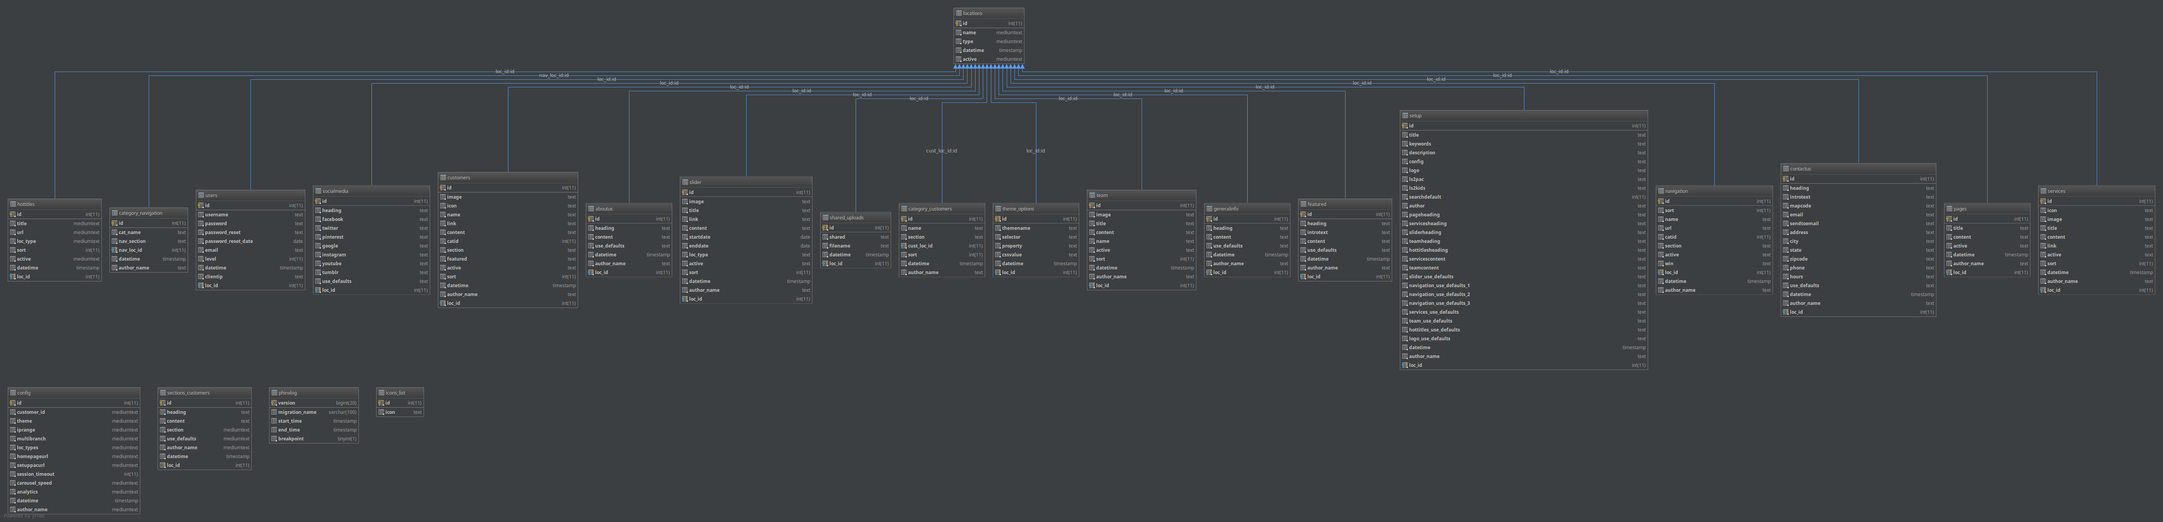
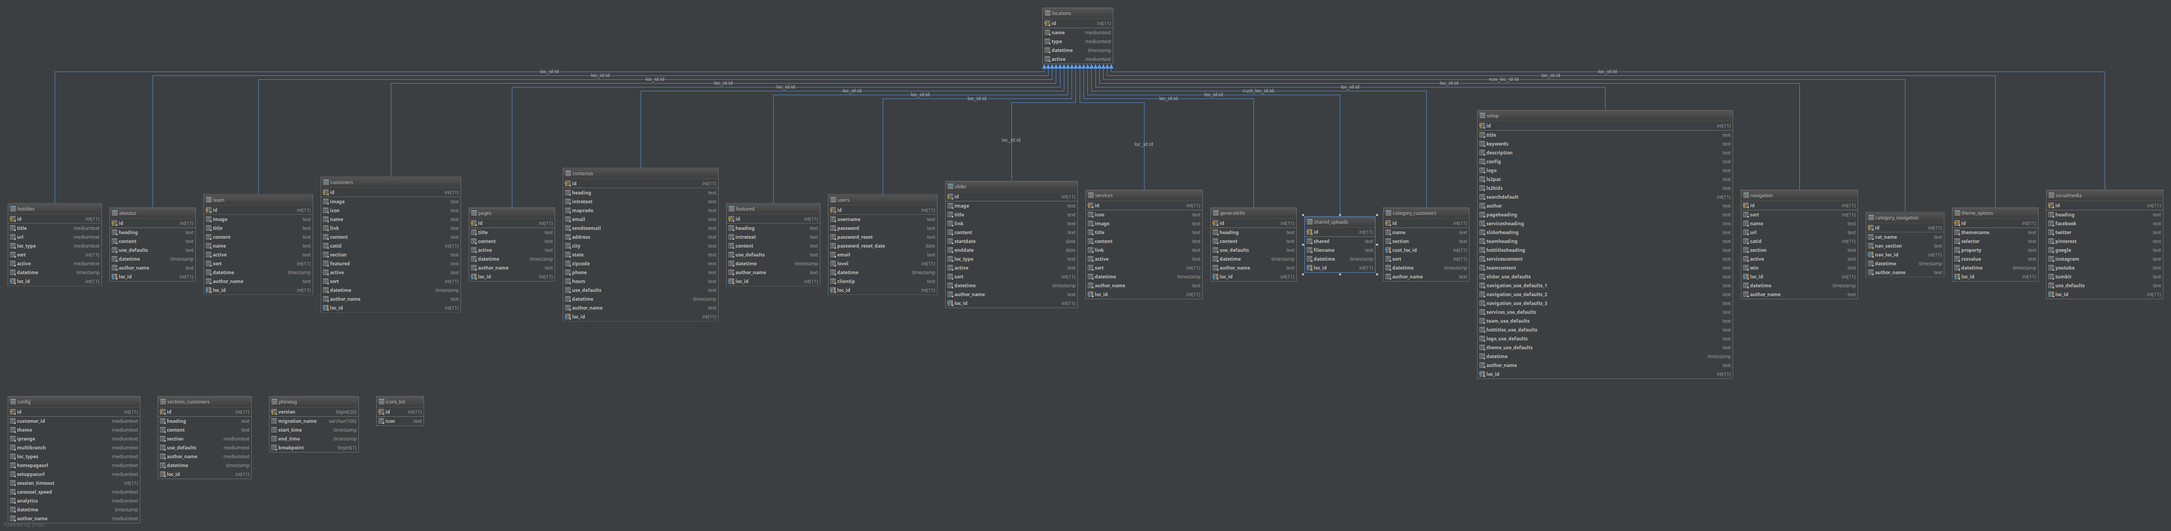
updated dynamic styles for default theme

diff --git a/themes/default/css/default-style.min.css b/themes/default/css/default-style.min.css
@@ -1,1 +1,1 @@
-html{padding:0;margin:0}body{font-family:"Century Gothic",Arial,sans-serif;padding:0;margin:0;position:relative;min-height:100%;top:0}p{font-family:"Arial",sans-serif;font-size:14px}a{color:#15698c}a:hover,a:focus{text-decoration:none;color:#008eaa}h1,.h1,h2,.h2,h3,.h3{font-family:"Century Gothic","Helvetica Neue",Helvetica,Arial,sans-serif}h1,.h1{color:#15698c}h3.sublinktitle{margin:10px 0 0 0}.text-white{color:#fff}footer{bottom:0;background:linear-gradient(#111,#0f0f0f,#202020);background:-webkit-linear-gradient(#111,#0f0f0f,#202020);background:-o-linear-gradient(#111,#0f0f0f,#202020);background:-moz-linear-gradient(#111,#0f0f0f,#202020);color:#fff;padding:70px 50px 0 50px;margin-top:0;margin-bottom:0;width:100%}footer a{text-decoration:none;color:#fff}footer a:hover{text-decoration:none;color:#008eaa}#belowfooter{background-color:transparent;background:transparent;padding:25px;color:#fff;height:80px}#belowfooter .row{padding:0 25px 0 25px}#belowfooter a{text-decoration:none;color:#fff}#belowfooter a:hover{text-decoration:none;color:#008eaa}.label{font-weight:normal}.navbar-brand{padding:10px 40px 8px 15px;height:100px}.navbar{min-height:100px;background-color:#FFF;border-bottom:#DDD 1px solid;margin-bottom:0}.cpsNavBar{font-family:"Century Gothic",Sans-serif;border-bottom:1px solid #e6e6e6;padding:10px 0 10px 15px}.navbarButton{font-family:"Century Gothic",Sans-serif;border:0;margin-top:23px}.navTitle{font-family:"Century Gothic",Sans-serif;padding-top:30px;margin-left:10px;margin-right:10px;color:#0032a0}.navTitleSmall{font-family:"Century Gothic",Sans-serif;margin-top:15px;font-size:14px}.navTabs{font-family:"Century Gothic",Sans-serif}.nav .open>a,.nav .open>a:focus,.nav .open>a:hover{background-color:transparent;border-color:transparent}.navbar-Search>li>a{color:#fff}.navbar-Search>li>a:focus,.navbar-Search>li>a:hover{background:transparent;color:#fff;text-decoration:underline}.navbar-Top>li{padding-right:25px}.navbar-Top>li>a{border-bottom:0;line-height:15px;font-size:1.1em;color:#15698c;padding:45px 0 6px}.navbar-Top>li>a:hover,.navbar-Top>li>a:focus{color:#008eaa;background-color:transparent}.nav-shrink ul.navbar-Top>li>a{padding:24px 0 12px 0}.nav-shrink .navbar-brand{height:60px}.nav-shrink{min-height:60px;-webkit-transition:min-height .5s;transition:min-height .5s}.nav-shrink .fa-inverse-socialmedia,.nav-shrink .fa-stack{font-size:1.2em}.img-landing{padding:4px;background-color:transparent;border-radius:16px;border:1px solid #fff;float:right}.socialDiv{float:right;padding-top:0;position:absolute;right:20px}.socialDiv .social-top>.fa-stack-2x{display:none}.socialDiv .fa-inverse-socialmedia{color:#15698c}.socialDiv .fa-inverse-socialmedia:hover{color:#428bca}#belowfooter .socialDiv{float:left;padding-top:0;position:relative;right:0;text-align:left;clear:both}#belowfooter .socialDiv .social-top>.fa-stack-2x{display:none}#belowfooter .socialDiv a.pull-right{float:left}#belowfooter .socialDiv .fa-inverse-socialmedia{color:#fff}.navbar-brand-image{width:144px;height:77px}.navbar-toggle{margin-top:22px}.toggbutton{font-size:.7em;line-height:1em;display:block;font-weight:bold}.bannerwrapper{padding:30px}.bannerwrapper h1{margin-top:0;margin-bottom:20px}.sitesearchheading{display:none}.grad-violet{background:-webkit-linear-gradient(-200deg,#601179,#93328e);background:-o-linear-gradient(-200deg,#601179,#93328e);background:-moz-linear-gradient(-200deg,#601179,#93328e);background:linear-gradient(-200deg,#601179,#93328e);background-color:#93328e}.grad-green{background:-webkit-linear-gradient(-200deg,#008eaa,#78be20);background:-o-linear-gradient(-200deg,#008eaa,#78be20);background:-moz-linear-gradient(-200deg,#008eaa,#78be20);background:linear-gradient(-200deg,#008eaa,#78be20);background-color:#008eaa}.grad-blue{background:-webkit-linear-gradient(-200deg,#15698c,#008eaa);background:-o-linear-gradient(-200deg,#15698c,#008eaa);background:-moz-linear-gradient(-200deg,#15698c,#008eaa);background:linear-gradient(-200deg,#15698c,#008eaa);background-color:#15698c}.grad-gray{background:-webkit-linear-gradient(-200deg,#e6e6e6,#fefefe);background:-o-linear-gradient(-200deg,#e6e6e6,#fefefe);background:-moz-linear-gradient(-200deg,#e6e6e6,#fefefe);background:linear-gradient(-200deg,#e6e6e6,#fefefe);background-color:#e6e6e6}.grad-orange{background:-webkit-linear-gradient(-200deg,#93328e,#ffc72c);background:-o-linear-gradient(-200deg,#93328e,#ffc72c);background:-moz-linear-gradient(-200deg,#93328e,#ffc72c);background:linear-gradient(-200deg,#93328e,#ffc72c);background-color:#ffc72c}.grad-neworange{background:-webkit-linear-gradient(-200deg,#ee7624,#f4ac7b);background:-o-linear-gradient(-200deg,#ee7624,#f4ac7b);background:-moz-linear-gradient(-200deg,#ee7624,#f4ac7b);background:linear-gradient(-200deg,#ee7624,#f4ac7b);background-color:#ee7624}.carousel-gradient{background:-webkit-linear-gradient(-200deg,#0033a0,#008eaa);background:-o-linear-gradient(-200deg,#0033a0,#008eaa);background:-moz-linear-gradient(-200deg,#0033a0,#008eaa);background:linear-gradient(-200deg,#0033a0,#008eaa);background-color:#0033a0}.ui-autocomplete{max-height:200px;overflow:hidden;overflow-y:auto;overflow-x:hidden}#sitesearch{margin-top:100px}.featured{margin-top:100px}.panel.with-nav-tabs .panel-heading{padding:5px 5px 0 5px}.panel.with-nav-tabs .nav-tabs{border-bottom:0}.panel.with-nav-tabs .nav-justified{margin-bottom:-1px}.with-nav-tabs.panel-default .nav-tabs>li>a,.with-nav-tabs.panel-default .nav-tabs>li>a:hover,.with-nav-tabs.panel-default .nav-tabs>li>a:focus{color:#777}.with-nav-tabs.panel-default .nav-tabs>.open>a,.with-nav-tabs.panel-default .nav-tabs>.open>a:hover,.with-nav-tabs.panel-default .nav-tabs>.open>a:focus,.with-nav-tabs.panel-default .nav-tabs>li>a:hover,.with-nav-tabs.panel-default .nav-tabs>li>a:focus{color:#777;background-color:#ddd;border-color:transparent}.with-nav-tabs.panel-default .nav-tabs>li.active>a,.with-nav-tabs.panel-default .nav-tabs>li.active>a:hover,.with-nav-tabs.panel-default .nav-tabs>li.active>a:focus{color:#555;background-color:#fff;border-color:#ddd;border-bottom-color:transparent;border-top:solid 3px #d9534f}.with-nav-tabs.panel-default .nav-tabs>li.dropdown .dropdown-menu{background-color:#f5f5f5;border-color:#ddd}.with-nav-tabs.panel-default .nav-tabs>li.dropdown .dropdown-menu>li>a{color:#777}.with-nav-tabs.panel-default .nav-tabs>li.dropdown .dropdown-menu>li>a:hover,.with-nav-tabs.panel-default .nav-tabs>li.dropdown .dropdown-menu>li>a:focus{background-color:#ddd}.with-nav-tabs.panel-default .nav-tabs>li.dropdown .dropdown-menu>.active>a,.with-nav-tabs.panel-default .nav-tabs>li.dropdown .dropdown-menu>.active>a:hover,.with-nav-tabs.panel-default .nav-tabs>li.dropdown .dropdown-menu>.active>a:focus{color:#fff;background-color:#555}#searchpac,#searchlocations{padding-left:12px;padding-right:12px}#searchpac .panel,#searchlocations .panel{margin-bottom:0}#searchpac .nav-tabs>li,#searchlocations .nav-tabs>li{margin-bottom:-2px}#sliderCarousel.carousel{height:400px}.slider{background-color:#fff}.sitesearch{min-height:400px}.col-md-12>p>img,.col-md-8>p>img,.col-md-4>p>img,.col-md-4>img,.col-md-2>img{margin:8px}.footer-nav,.footer-subnav{margin:0 10px 0 10px;padding:0}.footer-nav>li,.footer-subnav>li{list-style-type:none}.nav-Footer>.cat-Footer{color:#fff;cursor:default}.nav-Footer>.cat-Footer:hover{background-color:transparent}.nav-Footer{padding:0 32px 0 0}.nav-Footer>.cat-links{list-style:none;padding-left:0;margin-bottom:12px}.navbar-Footer{min-width:100%}.navbar-Footer .cat-links li{padding-bottom:10px}.navbar-Footer>li>a:focus,.navbar-Footer>li>a:hover{text-decoration:none;background-color:transparent}.navbar-Footer>.nav-Footer{min-width:30%;padding-right:12px;padding-left:12px;margin-right:12px}.nav-Footer>.cat-Footer{font-size:2em;margin-bottom:12px;border-bottom:solid 1px;padding:0 0 12px}.navbar-Footer>li>a{position:relative;display:block;padding:0 15px;margin-bottom:12px}.footer>.navbar-nav>li>a:hover{background:0}.fa-6x{font-size:6em}.fa-7x{font-size:7em}.fa-8x{font-size:8em}.fa-9x{font-size:9em}.fa-10x{font-size:10em}.img-circle{padding:3px}.copyright{margin-top:30px}.row_pad{margin-top:0;padding:0 15px 0 15px}.cat-title:not(:first-child){margin-top:30px}.cat-title{margin-bottom:4px;margin-top:12px;border-bottom:solid 1px #eee}.database-item,.service-item{float:left;margin-top:15px;margin-bottom:15px}div.database-break{clear:both}.team-item:nth-child(6),.service-item:nth-child(6){clear:both}.team-item:nth-child(10),.service-item:nth-child(10){clear:both}.team-item:nth-child(14),.service-item:nth-child(14){clear:both}.team-item:nth-child(18),.service-item:nth-child(18){clear:both}.team-item:nth-child(22),.service-item:nth-child(22){clear:both}.team-item:nth-child(26),.service-item:nth-child(26){clear:both}.team-item:nth-child(30),.service-item:nth-child(30){clear:both}.team-item:nth-child(34),.service-item:nth-child(34){clear:both}.team-item h3{text-align:center}.navbar-center{display:inline-block;float:none}#generalinfo{padding:10px 10px 0 10px}.content{padding-top:12px;padding-bottom:40px;height:100%;min-height:150px}.container iframe{border:0}a.offscreen{position:absolute;left:-1000px;top:-1000px;width:1px;height:1px;text-align:left;overflow:hidden}a.offscreen:focus,a.offscreen:active,a.offscreen:hover{position:static;left:4px;top:4px;padding:4px;width:auto;height:auto;text-align:left;overflow:visible;display:inline-block;color:#900}#hottitlesTabs .nav-pills>li.active>a{color:#fff;background-color:#1c8ab8}.btn-primary{color:#fff;background-color:#1c8ab8;border-color:#1c8ab8}.btn-primary:hover,.btn-primary:focus{color:#fff;background-color:#008eaa;border-color:#00718c}.text-primary{color:#1c8ab8}.service-item .text-primary{color:#1c8ab8}#sliderCarousel.carousel .fill{width:100%;height:100%;background-position:center center;background-size:cover;background-repeat:no-repeat}#sliderCarousel .carousel-control{background:0;visibility:hidden}#sliderCarousel:hover .carousel-control{visibility:visible}#sliderCarousel .carousel-control i{font-family:"Helvetica Neue",Helvetica,Roboto,Arial,sans-serif;margin-top:-40px;font-style:normal;font-size:4em}#hottitlesCarousel .carousel-control i{font-family:"Helvetica Neue",Helvetica,Roboto,Arial,sans-serif;margin-top:-40px;font-style:normal;font-size:4em;color:#1c8ab8;opacity:1.0}#hottitlesCarousel .carousel-control{background:0;visibility:hidden}#hottitlesCarousel:hover .carousel-control{visibility:visible}@media(max-width:1276px){#sliderCarousel.carousel{height:330px}#sliderCarousel.carousel .fill{background-size:contain}}@media(max-width:1023px){#sliderCarousel.carousel{height:325px}#sliderCarousel.carousel .fill{background-size:contain}}@media(max-width:990px){#sliderCarousel.carousel{height:250px}#sliderCarousel.carousel .fill{background-size:contain}}@media(max-width:800px){#sliderCarousel.carousel{height:250px}#sliderCarousel.carousel .fill{background-size:contain}}@media(max-width:760px){.nav-shrink{min-height:50px}.nav-shrink .navbar-toggle{margin-top:2px;margin-bottom:2px}.navbar-Top>li>a{padding:10px 14px 10px 14px}.nav-shrink ul.navbar-Top>li>a{padding:12px 12px 12px 12px}#sliderCarousel.carousel{height:250px}#sliderCarousel.carousel .fill{background-size:contain}#sliderCarousel .carousel-caption{bottom:20%}#sliderCarousel .carousel-control{visibility:visible}#hottitlesCarousel .carousel-control{visibility:visible}.container-fluid{padding-left:2px;padding-right:2px}#generalinfo{padding:0}footer{padding:50px 12px 0 12px}#belowfooter{padding:0}#belowfooter .socialDiv{float:none;padding:10px}}@media(max-width:700px){#sliderCarousel.carousel{height:215px}#sliderCarousel.carousel .fill{background-size:contain}}@media(max-width:596px){#sliderCarousel.carousel{height:170px}#sliderCarousel.carousel .fill{background-size:contain}#sliderCarousel .carousel-caption{bottom:10%}#sliderCarousel .carousel-control{background:0;visibility:visible}#hottitlesCarousel .carousel-control,#hottitlesCarousel:hover .carousel-control{visibility:visible}}@media(max-width:476px){#sliderCarousel.carousel{height:130px}#sliderCarousel.carousel .fill{background-size:cover}#sliderCarousel .carousel-caption{padding:2px;margin:2px}#sliderCarousel .carousel-caption h2{font-size:12pt;padding:2px}#sliderCarousel .carousel-caption p{display:none}#sliderCarousel .carousel-caption .btn{padding:2px 4px 2px 4px;font-size:8pt}#sliderCarousel .carousel-control,#sliderCarousel:hover .carousel-control{background:0;visibility:visible}#hottitlesCarousel .carousel-control,#hottitlesCarousel:hover .carousel-control{visibility:visible}}@media(max-width:316px){#sliderCarousel.carousel{display:none}}
+html{padding:0;margin:0}body{font-family:"Century Gothic",Arial,sans-serif;padding:0;margin:0;position:relative;min-height:100%;top:0}p{font-family:"Arial",sans-serif;font-size:14px}a{color:#15698c}a:hover,a:focus{text-decoration:none;color:#008eaa}h1,.h1,h2,.h2,h3,.h3{font-family:"Century Gothic","Helvetica Neue",Helvetica,Arial,sans-serif}h1,.h1{color:#15698c}h3.sublinktitle{margin:10px 0 0 0}.text-white{color:#fff}footer{bottom:0;background:linear-gradient(#111,#0f0f0f,#202020);background:-webkit-linear-gradient(#111,#0f0f0f,#202020);background:-o-linear-gradient(#111,#0f0f0f,#202020);background:-moz-linear-gradient(#111,#0f0f0f,#202020);color:#fff;padding:70px 50px 0 50px;margin-top:0;margin-bottom:0;width:100%}footer a{text-decoration:none;color:#fff}footer a:hover{text-decoration:none;color:#008eaa}#belowfooter{background-color:transparent;background:transparent;padding:25px;color:#fff;height:80px}#belowfooter .row{padding:0 25px 0 25px}#belowfooter a{text-decoration:none;color:#fff}#belowfooter a:hover{text-decoration:none;color:#008eaa}.label{font-weight:normal}.navbar-brand{padding:10px 40px 8px 15px;height:100px}.navbar{min-height:100px;background-color:#FFF;border-bottom:#DDD 1px solid;margin-bottom:0}.cpsNavBar{font-family:"Century Gothic",Sans-serif;border-bottom:1px solid #e6e6e6;padding:10px 0 10px 15px}.navbarButton{font-family:"Century Gothic",Sans-serif;border:0;margin-top:23px}.navTitle{font-family:"Century Gothic",Sans-serif;padding-top:30px;margin-left:10px;margin-right:10px;color:#0032a0}.navTitleSmall{font-family:"Century Gothic",Sans-serif;margin-top:15px;font-size:14px}.navTabs{font-family:"Century Gothic",Sans-serif}.nav .open>a,.nav .open>a:focus,.nav .open>a:hover{background-color:transparent;border-color:transparent}.navbar-Search>li>a{color:#fff}.navbar-Search>li>a:focus,.navbar-Search>li>a:hover{background:transparent;color:#fff;text-decoration:underline}.navbar-Top>li{padding-right:25px}.navbar-Top>li>a{border-bottom:0;line-height:15px;font-size:1.1em;color:#15698c;padding:45px 0 6px}.navbar-Top>li>a:hover,.navbar-Top>li>a:focus{color:#008eaa;background-color:transparent}.nav-shrink ul.navbar-Top>li>a{padding:24px 0 12px 0}.nav-shrink .navbar-brand{height:60px}.nav-shrink{min-height:60px;-webkit-transition:min-height .5s;transition:min-height .5s}.nav-shrink .fa-inverse-socialmedia,.nav-shrink .fa-stack{font-size:1.2em}.img-landing{padding:4px;background-color:transparent;border-radius:16px;border:1px solid #fff;float:right}.socialDiv{float:right;padding-top:0;position:absolute;right:20px}.socialDiv .social-top>.fa-stack-2x{display:none}.socialDiv .fa-inverse-socialmedia{color:#15698c}.socialDiv .fa-inverse-socialmedia:hover{color:#428bca}#belowfooter .socialDiv{float:left;padding-top:0;position:relative;right:0;text-align:left;clear:both}#belowfooter .socialDiv .social-top>.fa-stack-2x{display:none}#belowfooter .socialDiv a.pull-right{float:left}#belowfooter .socialDiv .fa-inverse-socialmedia{color:#fff}.navbar-brand-image{width:144px;height:77px}.navbar-toggle{margin-top:22px}.toggbutton{font-size:.7em;line-height:1em;display:block;font-weight:bold}.bannerwrapper{padding:30px}.bannerwrapper h1{margin-top:0;margin-bottom:20px}.sitesearchheading{display:none}.grad-violet{background:-webkit-linear-gradient(-200deg,#601179,#93328e);background:-o-linear-gradient(-200deg,#601179,#93328e);background:-moz-linear-gradient(-200deg,#601179,#93328e);background:linear-gradient(-200deg,#601179,#93328e);background-color:#93328e}.grad-green{background:-webkit-linear-gradient(-200deg,#008eaa,#78be20);background:-o-linear-gradient(-200deg,#008eaa,#78be20);background:-moz-linear-gradient(-200deg,#008eaa,#78be20);background:linear-gradient(-200deg,#008eaa,#78be20);background-color:#008eaa}.grad-blue{background:-webkit-linear-gradient(-200deg,#15698c,#008eaa);background:-o-linear-gradient(-200deg,#15698c,#008eaa);background:-moz-linear-gradient(-200deg,#15698c,#008eaa);background:linear-gradient(-200deg,#15698c,#008eaa);background-color:#15698c}.grad-gray{background:-webkit-linear-gradient(-200deg,#e6e6e6,#fefefe);background:-o-linear-gradient(-200deg,#e6e6e6,#fefefe);background:-moz-linear-gradient(-200deg,#e6e6e6,#fefefe);background:linear-gradient(-200deg,#e6e6e6,#fefefe);background-color:#e6e6e6}.grad-orange{background:-webkit-linear-gradient(-200deg,#93328e,#ffc72c);background:-o-linear-gradient(-200deg,#93328e,#ffc72c);background:-moz-linear-gradient(-200deg,#93328e,#ffc72c);background:linear-gradient(-200deg,#93328e,#ffc72c);background-color:#ffc72c}.grad-neworange{background:-webkit-linear-gradient(-200deg,#ee7624,#f4ac7b);background:-o-linear-gradient(-200deg,#ee7624,#f4ac7b);background:-moz-linear-gradient(-200deg,#ee7624,#f4ac7b);background:linear-gradient(-200deg,#ee7624,#f4ac7b);background-color:#ee7624}.carousel-gradient{background:-webkit-linear-gradient(-200deg,#0033a0,#008eaa);background:-o-linear-gradient(-200deg,#0033a0,#008eaa);background:-moz-linear-gradient(-200deg,#0033a0,#008eaa);background:linear-gradient(-200deg,#0033a0,#008eaa);background-color:#0033a0}.ui-autocomplete{max-height:200px;overflow:hidden;overflow-y:auto;overflow-x:hidden}#sitesearch{margin-top:100px}.featured{margin-top:100px}.panel.with-nav-tabs .panel-heading{padding:5px 5px 0 5px}.panel.with-nav-tabs .nav-tabs{border-bottom:0}.panel.with-nav-tabs .nav-justified{margin-bottom:-1px}.with-nav-tabs.panel-default .nav-tabs>li>a,.with-nav-tabs.panel-default .nav-tabs>li>a:hover,.with-nav-tabs.panel-default .nav-tabs>li>a:focus{color:#777}.with-nav-tabs.panel-default .nav-tabs>.open>a,.with-nav-tabs.panel-default .nav-tabs>.open>a:hover,.with-nav-tabs.panel-default .nav-tabs>.open>a:focus,.with-nav-tabs.panel-default .nav-tabs>li>a:hover,.with-nav-tabs.panel-default .nav-tabs>li>a:focus{color:#777;background-color:#ddd;border-color:transparent}.with-nav-tabs.panel-default .nav-tabs>li.active>a,.with-nav-tabs.panel-default .nav-tabs>li.active>a:hover,.with-nav-tabs.panel-default .nav-tabs>li.active>a:focus{color:#555;background-color:#fff;border-color:#ddd;border-bottom-color:transparent;border-top:solid 3px #d9534f}.with-nav-tabs.panel-default .nav-tabs>li.dropdown .dropdown-menu{background-color:#f5f5f5;border-color:#ddd}.with-nav-tabs.panel-default .nav-tabs>li.dropdown .dropdown-menu>li>a{color:#777}.with-nav-tabs.panel-default .nav-tabs>li.dropdown .dropdown-menu>li>a:hover,.with-nav-tabs.panel-default .nav-tabs>li.dropdown .dropdown-menu>li>a:focus{background-color:#ddd}.with-nav-tabs.panel-default .nav-tabs>li.dropdown .dropdown-menu>.active>a,.with-nav-tabs.panel-default .nav-tabs>li.dropdown .dropdown-menu>.active>a:hover,.with-nav-tabs.panel-default .nav-tabs>li.dropdown .dropdown-menu>.active>a:focus{color:#fff;background-color:#555}#searchpac,#searchlocations{padding-left:12px;padding-right:12px}#searchpac .panel,#searchlocations .panel{margin-bottom:0}#searchpac .nav-tabs>li,#searchlocations .nav-tabs>li{margin-bottom:-2px}#sliderCarousel.carousel{height:400px}.slider{background-color:#fff}.sitesearch{min-height:400px}.col-md-12>p>img,.col-md-8>p>img,.col-md-4>p>img,.col-md-4>img,.col-md-2>img{margin:8px}.footer-nav,.footer-subnav{margin:0 10px 0 10px;padding:0}.footer-nav>li,.footer-subnav>li{list-style-type:none}.nav-Footer>.cat-Footer{color:#fff;cursor:default}.nav-Footer>.cat-Footer:hover{background-color:transparent}.nav-Footer{padding:0 32px 0 0}.nav-Footer>.cat-links{list-style:none;padding-left:0;margin-bottom:12px}.navbar-Footer{min-width:100%}.navbar-Footer .cat-links li{padding-bottom:10px}.navbar-Footer>li>a:focus,.navbar-Footer>li>a:hover{text-decoration:none;background-color:transparent}.navbar-Footer>.nav-Footer{min-width:30%;padding-right:12px;padding-left:12px;margin-right:12px}.nav-Footer>.cat-Footer{font-size:2em;margin-bottom:12px;border-bottom:solid 1px;padding:0 0 12px}.navbar-Footer>li>a{position:relative;display:block;padding:0 15px;margin-bottom:12px}.footer>.navbar-nav>li>a:hover{background:0}.fa-6x{font-size:6em}.fa-7x{font-size:7em}.fa-8x{font-size:8em}.fa-9x{font-size:9em}.fa-10x{font-size:10em}.img-circle{padding:3px}.copyright{margin-top:30px}.row_pad{margin-top:0;padding:0 15px 0 15px}.cat-title:not(:first-child){margin-top:30px}.cat-title{margin-bottom:4px;margin-top:12px;border-bottom:solid 1px #eee}.database-item,.service-item{float:left;margin-top:15px;margin-bottom:15px}div.database-break{clear:both}.team-item:nth-child(6),.service-item:nth-child(6){clear:both}.team-item:nth-child(10),.service-item:nth-child(10){clear:both}.team-item:nth-child(14),.service-item:nth-child(14){clear:both}.team-item:nth-child(18),.service-item:nth-child(18){clear:both}.team-item:nth-child(22),.service-item:nth-child(22){clear:both}.team-item:nth-child(26),.service-item:nth-child(26){clear:both}.team-item:nth-child(30),.service-item:nth-child(30){clear:both}.team-item:nth-child(34),.service-item:nth-child(34){clear:both}.team-item h3{text-align:center}.navbar-center{display:inline-block;float:none}#generalinfo{padding:10px 10px 0 10px}.content{padding-top:12px;padding-bottom:40px;height:100%;min-height:150px}.container iframe{border:0}a.offscreen{position:absolute;left:-1000px;top:-1000px;width:1px;height:1px;text-align:left;overflow:hidden}a.offscreen:focus,a.offscreen:active,a.offscreen:hover{position:static;left:4px;top:4px;padding:4px;width:auto;height:auto;text-align:left;overflow:visible;display:inline-block;color:#900}#hottitlesTabs .nav-pills>li.active>a{color:#fff;background-color:#1c8ab8}.btn-primary{color:#fff;background-color:#1c8ab8;border-color:transparent}.btn-primary:hover,.btn-primary:focus{color:#fff;background-color:#008eaa;border-color:transparent}.text-primary{color:#1c8ab8}.service-item .text-primary{color:#1c8ab8}#sliderCarousel.carousel .fill{width:100%;height:100%;background-position:center center;background-size:cover;background-repeat:no-repeat}#sliderCarousel .carousel-control{background:0;visibility:hidden}#sliderCarousel:hover .carousel-control{visibility:visible}#sliderCarousel .carousel-control i{font-family:"Helvetica Neue",Helvetica,Roboto,Arial,sans-serif;margin-top:-40px;font-style:normal;font-size:4em}#hottitlesCarousel .carousel-control i{font-family:"Helvetica Neue",Helvetica,Roboto,Arial,sans-serif;margin-top:-40px;font-style:normal;font-size:4em;color:#1c8ab8;opacity:1.0}#hottitlesCarousel .carousel-control{background:0;visibility:hidden}#hottitlesCarousel:hover .carousel-control{visibility:visible}@media(max-width:1276px){#sliderCarousel.carousel{height:330px}#sliderCarousel.carousel .fill{background-size:contain}}@media(max-width:1023px){#sliderCarousel.carousel{height:325px}#sliderCarousel.carousel .fill{background-size:contain}}@media(max-width:990px){#sliderCarousel.carousel{height:250px}#sliderCarousel.carousel .fill{background-size:contain}}@media(max-width:800px){#sliderCarousel.carousel{height:250px}#sliderCarousel.carousel .fill{background-size:contain}}@media(max-width:760px){.nav-shrink{min-height:50px}.nav-shrink .navbar-toggle{margin-top:2px;margin-bottom:2px}.navbar-Top>li>a{padding:10px 14px 10px 14px}.nav-shrink ul.navbar-Top>li>a{padding:12px 12px 12px 12px}#sliderCarousel.carousel{height:250px}#sliderCarousel.carousel .fill{background-size:contain}#sliderCarousel .carousel-caption{bottom:20%}#sliderCarousel .carousel-control{visibility:visible}#hottitlesCarousel .carousel-control{visibility:visible}.container-fluid{padding-left:2px;padding-right:2px}#generalinfo{padding:0}footer{padding:50px 12px 0 12px}#belowfooter{padding:0}#belowfooter .socialDiv{float:none;padding:10px}}@media(max-width:700px){#sliderCarousel.carousel{height:215px}#sliderCarousel.carousel .fill{background-size:contain}}@media(max-width:596px){#sliderCarousel.carousel{height:170px}#sliderCarousel.carousel .fill{background-size:contain}#sliderCarousel .carousel-caption{bottom:10%}#sliderCarousel .carousel-control{background:0;visibility:visible}#hottitlesCarousel .carousel-control,#hottitlesCarousel:hover .carousel-control{visibility:visible}}@media(max-width:476px){#sliderCarousel.carousel{height:130px}#sliderCarousel.carousel .fill{background-size:cover}#sliderCarousel .carousel-caption{padding:2px;margin:2px}#sliderCarousel .carousel-caption h2{font-size:12pt;padding:2px}#sliderCarousel .carousel-caption p{display:none}#sliderCarousel .carousel-caption .btn{padding:2px 4px 2px 4px;font-size:8pt}#sliderCarousel .carousel-control,#sliderCarousel:hover .carousel-control{background:0;visibility:visible}#hottitlesCarousel .carousel-control,#hottitlesCarousel:hover .carousel-control{visibility:visible}}@media(max-width:316px){#sliderCarousel.carousel{display:none}}

diff --git a/themes/default/css/default-style.css b/themes/default/css/default-style.css
@@ -596,12 +596,14 @@ a.offscreen:focus, a.offscreen:active, a.offscreen:hover {
 .btn-primary {
     color: #fff;
     background-color: #1C8AB8;
-    border-color: #1C8AB8;
+    /*border-color: #1C8AB8;*/
+    border-color: transparent;
 }
 .btn-primary:hover, .btn-primary:focus {
     color: #fff;
     background-color: #008eaa;
-    border-color: #00718c;
+    /*border-color: #00718c;*/
+    border-color: transparent;
 }
 .text-primary {
     color: #1C8AB8;

diff --git a/admin/import.php b/admin/import.php
@@ -11,10 +11,12 @@ if (isset($_SESSION['loggedIn']) && $_SESSION['super_admin'] == false || $_SESSI
     header('Location: index.php?logout=true');
     echo "<script>window.location.href='index.php?logout=true';</script>";
 }
+
 //Create the backup folder
 if (!file_exists(__DIR__ . '/backups/')) {
     @mkdir(__DIR__ . '/backups/', 0755);
 }
+
 //Check that backups folder is writable.
 if (!is_writeable(__DIR__ . '/backups/')){
     $pageMsg = "<div class='alert alert-danger'>" . __DIR__ . "/backups is not writable. Check folder permissions.</div>";
@@ -78,8 +80,8 @@ if ($_POST['save_main']) {
                 $locationInsert = "INSERT INTO locations (id, name, type, datetime, active) VALUES (" . $locIdCount . ", '" . safeCleanStr(addslashes($locData[0])) . "', '" . safeCleanStr(addslashes($locData[1])) . "', '" . date("Y-m-d H:i:s") . "', 'true')";
                 mysqli_query($db_conn, $locationInsert);
 
-                //Insert into setup table
-                $setupInsert = "INSERT INTO setup (title, config, ls2pac, ls2kids, searchdefault, pageheading, servicesheading, sliderheading, teamheading, hottitlesheading, slider_use_defaults, navigation_use_defaults_1, navigation_use_defaults_2, navigation_use_defaults_3, services_use_defaults, team_use_defaults, hottitles_use_defaults, datetime, author_name, loc_id) VALUES ('" . safeCleanStr(addslashes($locData[0])) . "', '" . safeCleanStr(addslashes($locData[2])) . "', 'true', 'true', 3, 'Pages', 'Our Services', 'Slides', 'Meet the Team', 'New Titles', 'true', 'true', 'true', 'true', 'true', 'true', 'true', '" . date("Y-m-d H:i:s") . "', '" . $_SESSION['user_name'] . "', " . $locIdCount . ")";
+                //Insert Setup
+                $setupInsert = "INSERT INTO setup (title, keywords, description, config, logo, ls2pac, ls2kids, searchdefault, author, pageheading, servicesheading, sliderheading, teamheading, hottitlesheading, servicescontent, teamcontent, slider_use_defaults, navigation_use_defaults_1, navigation_use_defaults_2, navigation_use_defaults_3, services_use_defaults, team_use_defaults, hottitles_use_defaults, logo_use_defaults, theme_use_defaults, datetime, author_name, loc_id) VALUES ('" . safeCleanStr(addslashes($locData[0])) . "', '', '', '" . safeCleanStr(addslashes($locData[2])) . "', '', 'true', 'true', 1, 'admin_import', 'Pages', 'Our Services', 'Slider', 'Meet the Team', 'New Items', '', '', 'true', 'true', 'true', 'true', 'true', 'true', 'true', 'true', 'true', '" . date("Y-m-d H:i:s") . "', '" . $_SESSION['user_name'] . "', " . $locIdCount . ")";
                 mysqli_query($db_conn, $setupInsert);
 
                 $contactInsert = "INSERT INTO contactus (email, sendtoemail, address, city, state, zipcode, phone, hours, datetime, loc_id) VALUES ('" . safeCleanStr(addslashes($locData[8])) . "', '" . safeCleanStr(addslashes($locData[8])) . "', '" . safeCleanStr(addslashes($locData[3])) . "', '" . safeCleanStr(addslashes($locData[4])) . "', '" . safeCleanStr(addslashes($locData[5])) . "', '" . safeCleanStr(addslashes($locData[6])) . "', '" . safeCleanStr(addslashes($locData[7])) . "', '" . safeCleanStr(addslashes($locData[9])) . "', '" . date("Y-m-d H:i:s") . "', " . $locIdCount . ")";
@@ -90,7 +92,7 @@ if ($_POST['save_main']) {
                 mysqli_query($db_conn, $aboutInsert);
 
                 //Insert Featured defaults
-                $featuredInsert = "INSERT INTO featured (heading, use_defaults, author_name, datetime, loc_id) VALUES ('Feature', 'true', '" . $_SESSION['user_name'] . "', '" . date("Y-m-d H:i:s") . "', " . $locIdCount . ")";
+                $featuredInsert = "INSERT INTO featured (heading, use_defaults, author_name, datetime, loc_id) VALUES ('" . safeCleanStr(addslashes($locData[0])) . "', 'false', '" . $_SESSION['user_name'] . "', '" . date("Y-m-d H:i:s") . "', " . $locIdCount . ")";
                 mysqli_query($db_conn, $featuredInsert);
 
                 //Do Insert

diff --git a/themes/default/css/dynamic-style.php b/themes/default/css/dynamic-style.php
@@ -9,29 +9,44 @@
 
 $themeCssLabels = [
     'Base Color',
+    'Buttons',
+    'Buttons: Hover',
     'Fonts',
     'Links',
-    'Links Hover',
+    'Links: Hover',
     'Navigation Bar',
+    'Navigation Bar: Links',
+    'Navigation Bar: Sub-Links',
     'Footer Background',
-    'Footer Links'
+    'Footer: Fonts',
+    'Footer: Links'
 ];
 $themeCssSelectors = [
-    '.themebase-bgcolor,.btn-primary',
-    'p,h1,h2,h3,h4,.text-primary,.socialDiv .fa-inverse-socialmedia,.nav-pills>li.active>a,.nav-pills>li.active>a:hover,.nav-pills>li.active>a:focus',
+    '.themebase-bgcolor,.grad-blue',
+    '.btn-primary,ul.nav-pills>li.active>a,ul.nav-pills>li>a',
+    '.btn-primary:hover,.btn-primary:focus',
+    'p,h1,h2,h3,h4,.text-primary,.service-item .text-primary',
     'a,a:link',
-    'a:hover,a:focus,.socialDiv .fa-inverse-socialmedia:hover',
+    'a:hover,a:focus,.fa-inverse-socialmedia:hover',
     '.themebase-navbarbgcolor',
-    '.themebase-footerbgcolor',
-    '.themebase-footerbgcolor a'
+    'ul.navbar-Top>li>a,.fa-inverse-socialmedia',
+    '.dropdown-menu>li>a',
+    '.themebase-footerbgcolor, .footer',
+    '#generalinfo>p',
+    'ul.navbar-Footer>li>a'
 ];
 $themeCssProperties = [
     'background',
+    'background-color',
+    'background-color',
     'color',
     'color',
     'color',
-    'background',
-    'background',
+    'background-color',
+    'color',
+    'color',
+    'background-color',
+    'color',
     'color'
 ];
 ?>
